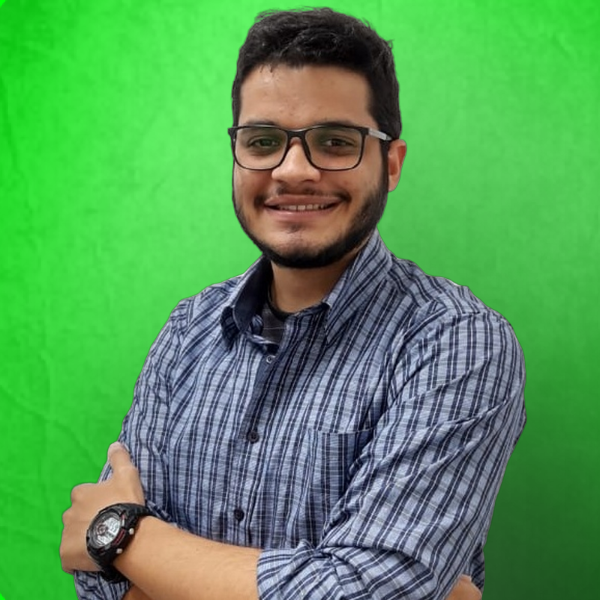
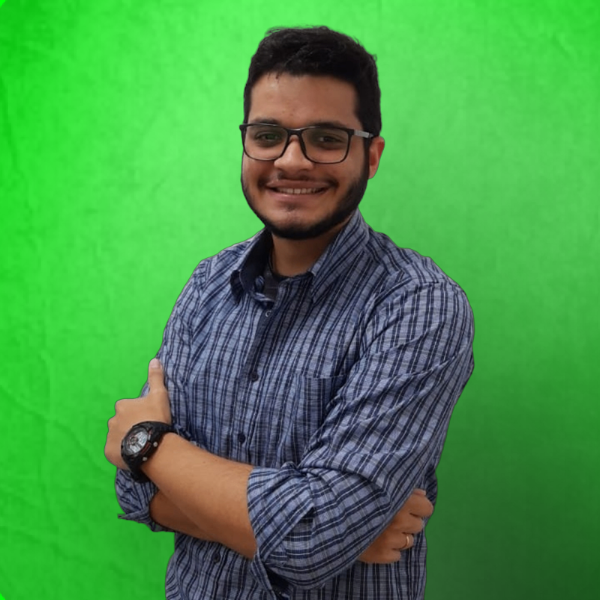
about-section

diff --git a/index.html b/index.html
@@ -10,7 +10,6 @@
     <link rel="stylesheet" href="https://cdn.jsdelivr.net/npm/bootstrap-icons@1.11.3/font/bootstrap-icons.min.css">
 
     <title>Gabriel Cruz | Portfólio</title>
-
     <!-- Favicon icon -->
     <link rel="apple-touch-icon" sizes="180x180" href="img/favicon/apple-touch-icon.png">
     <link rel="icon" type="image/png" sizes="32x32" href="img/favicon/favicon-32x32.png">
@@ -88,10 +87,30 @@
                         <p>Lorem, ipsum dolor sit amet consectetur adipisicing elit. Optio iusto explicabo aperiam velit veritatis pariatur error impedit nostrum, aliquam fuga deleniti animi iure temporibus cum id atque facilis totam aspernatur!</p>
                     </div><!-- cards -->
 
-
                 </div><!-- flex -->
             </div><!-- main-wrapp -->
         </section><!-- section2 -->
+
+        <section class="section3">
+            <div class="main-wrapp">
+                <div class="flex">
+                    <div class="img-sobre">
+                       <img src="img/about-me.jpg" alt="Gabriel Cruz"> 
+                    </div>
+                    <div class="txt-sobre">
+                        <h2>Muito prazer, <span>sou Gabriel Cruz</span></h2>
+                        <p>Lorem ipsum dolor sit amet consectetur adipisicing elit. Sed veniam eius, atque quibusdam nesciunt aliquam iure accusamus fuga deserunt vitae dolorem sunt tempora maxime corrupti temporibus quae voluptatum autem dolores?</p>
+                        <p>Lorem ipsum dolor sit amet consectetur adipisicing elit. Similique repellat nesciunt ratione nobis dignissimos qui saepe dicta rerum harum impedit fuga consequuntur dolorem temporibus placeat voluptate, dolorum in perspiciatis at.</p>
+
+                        <div class="social-icons">
+                            <a href=""><button><i class="bi bi-file-earmark-text"></i></button></a>
+                            <a href="https://github.com/devgabrielcruz" target="_blank"><button><i class="bi bi-github"></i></button></a>
+                            <a href="https://linkedin.com/in/itsgabrielcruz" target="_blank"><button><i class="bi bi-linkedin"></i></button></a>
+                        </div>
+                    </div>
+                </div>                
+            </div><!-- main-wrapp -->
+        </section> <!-- section3 -->
     </main>
 
 <script scr="./js/script.js"></script>

diff --git a/css/style.css b/css/style.css
@@ -36,11 +36,6 @@ body {
     transition: .2s;
 }
 
-.btn-contato button:hover {
-    box-shadow: 0px 0px 8px #00ff08;
-    transform: scale(1.05);
-}
-
 h2.titulo {
     text-align: center;
     color: #fff;
@@ -50,6 +45,11 @@ h2.titulo {
 
 h2.titulo span {
     color:#00ff08
+}
+
+button:hover {
+    box-shadow: 0px 0px 8px #00ff08;
+    transform: scale(1.05);
 }
 
 /* Estilo menu */
@@ -162,4 +162,52 @@ section.section2  .flex {
 .section2 .cards h3 {
     font-size: 28px;
     margin: 15px 0;
+}
+
+/* Section3 Styles */
+
+section.section3 {
+    padding: 80px 4%;
+}
+
+.section3 .img-sobre img {
+    border-radius: 15px;
+}
+
+section.section3 .flex {
+    align-items: center;
+    gap: 60px;
+}
+
+.section3 .txt-sobre h2 {
+    font-size: 49px;
+    line-height: 50px;
+    text-transform: uppercase;
+    margin-bottom: 30px;
+}
+
+.section3 .txt-sobre span {
+    display: block;
+    color: #00ff08;
+}
+
+.section3 .txt-sobre {
+    color: #fff;
+}
+
+.section3 .txt-sobre p {
+    margin: 20px 0;
+    text-align: justify;
+}
+
+.section3 .txt-sobre .social-icons button {
+    width: 40px;
+    height: 40px;
+    border-radius: 30px;
+    border: 0;
+    background: #00ff08;
+    font-size: 18px;
+    cursor: pointer;
+    margin: 0 1px;
+    transition: 0.2s;
 }
